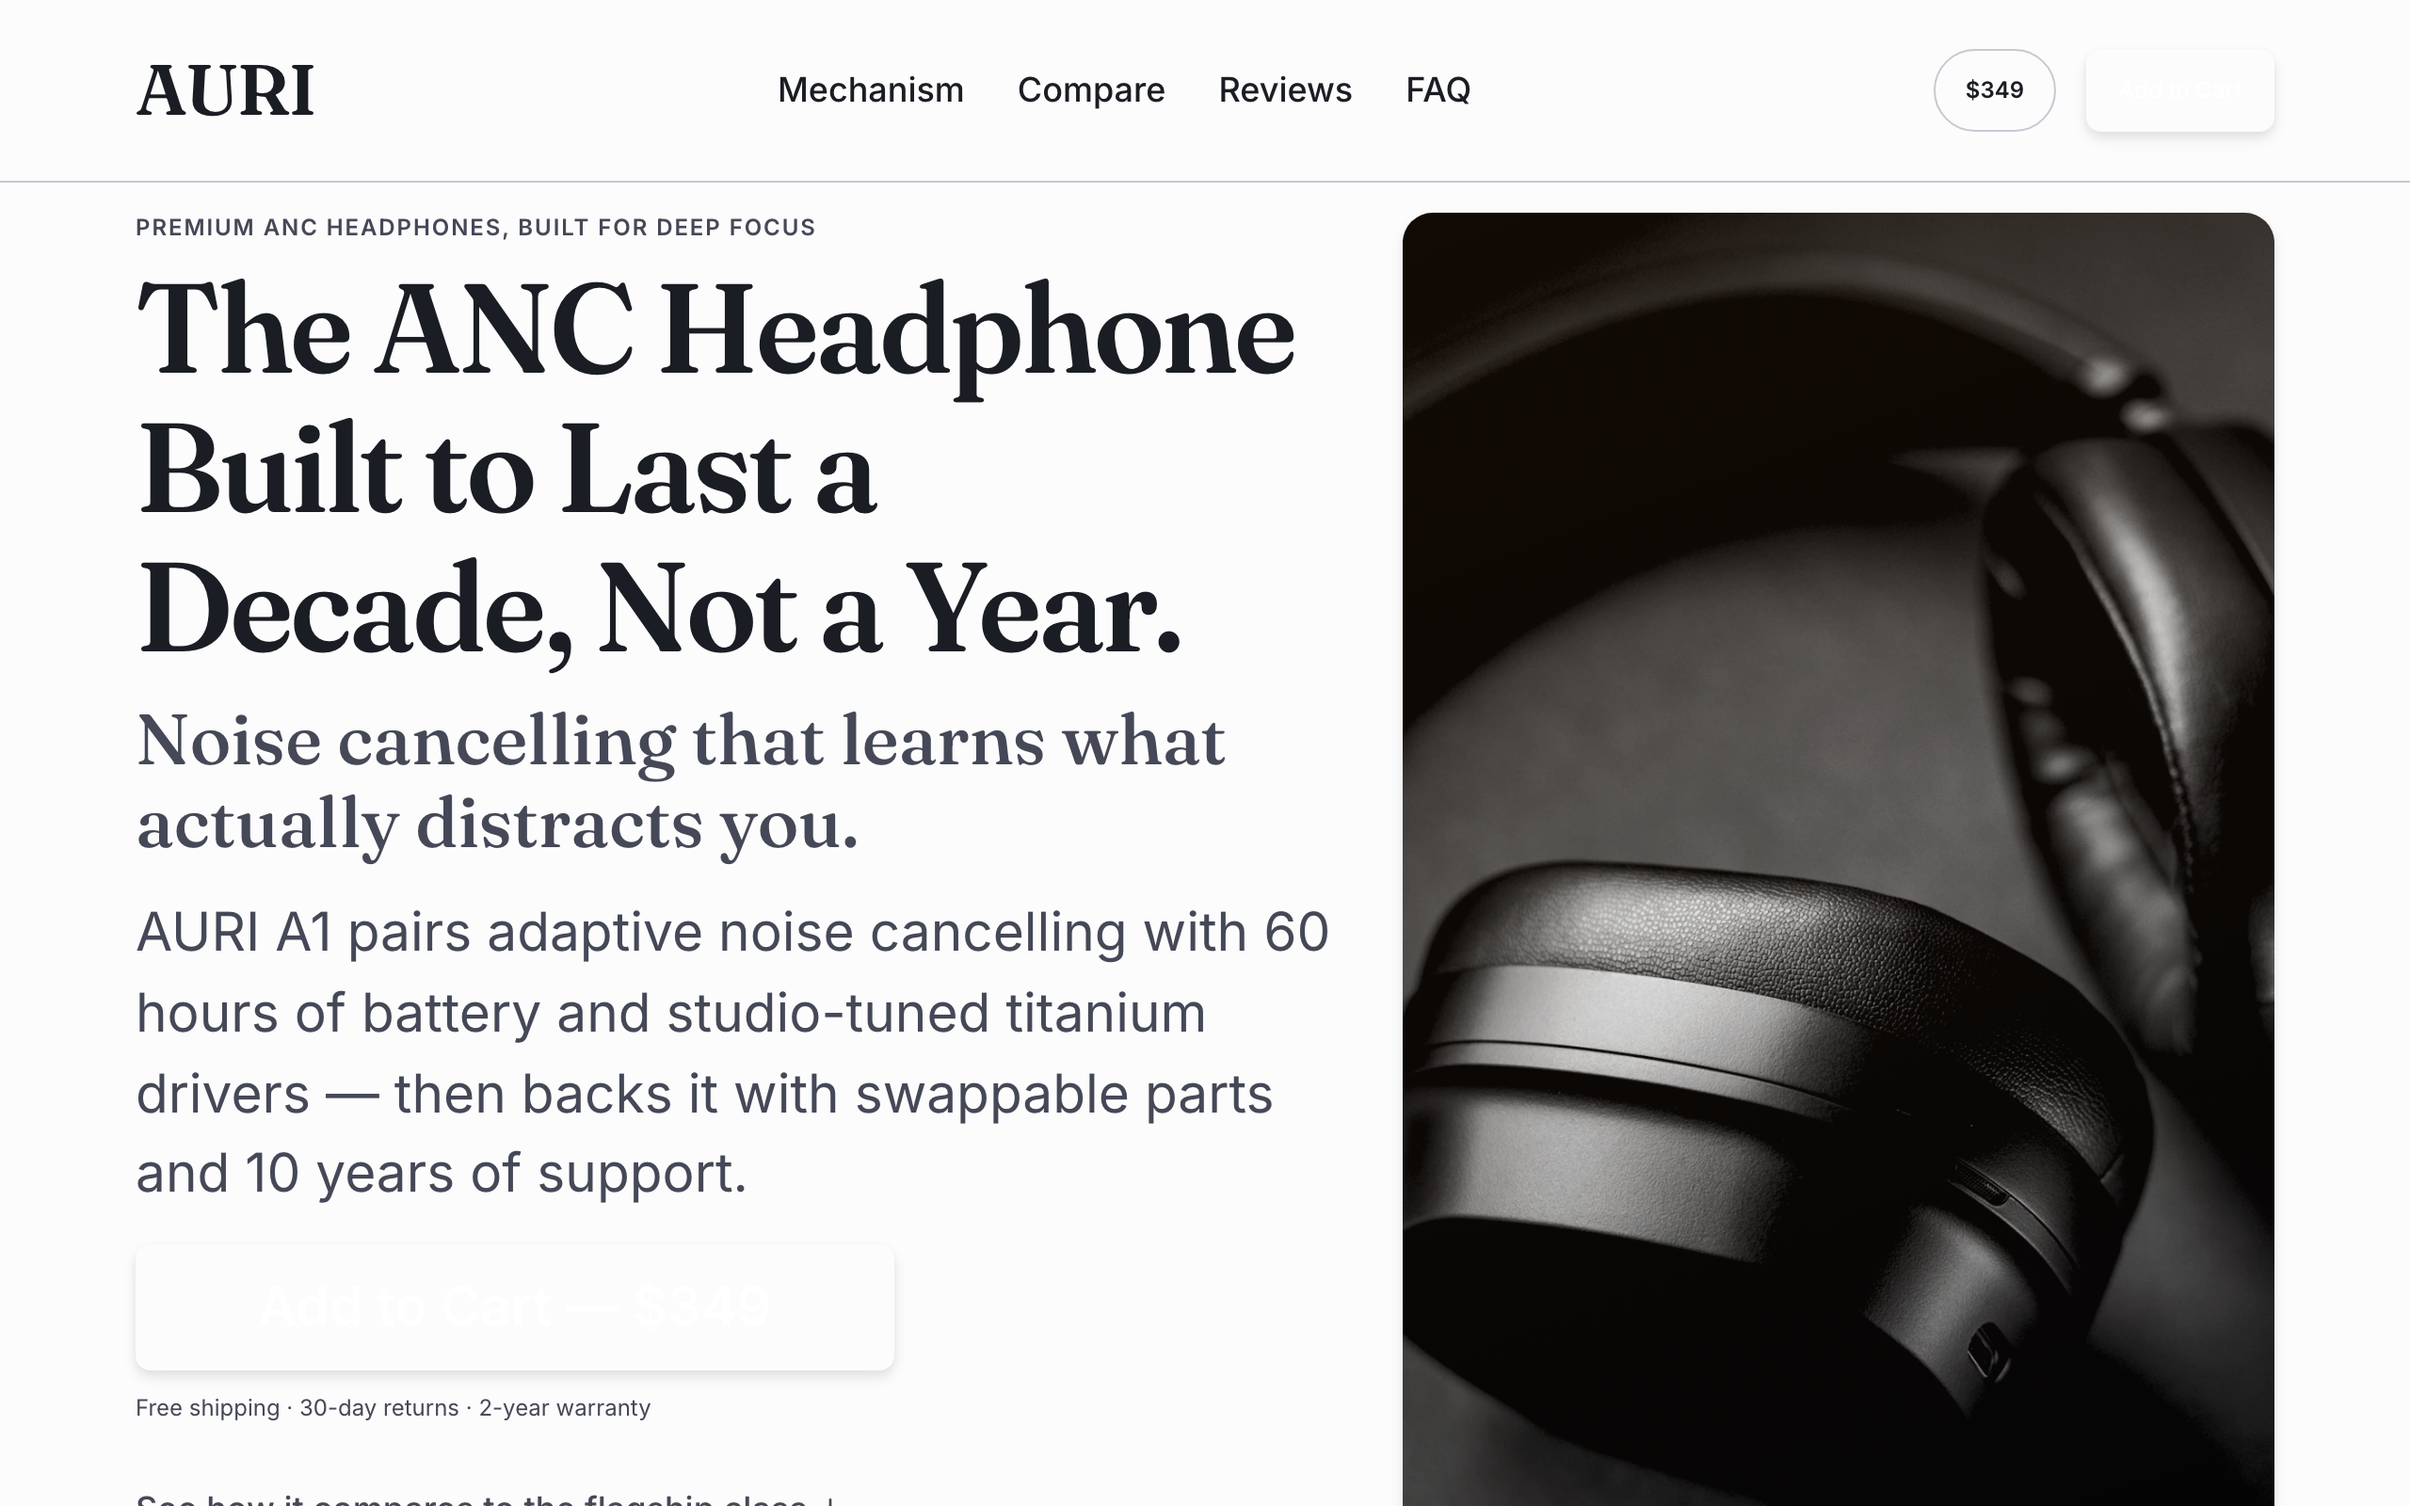
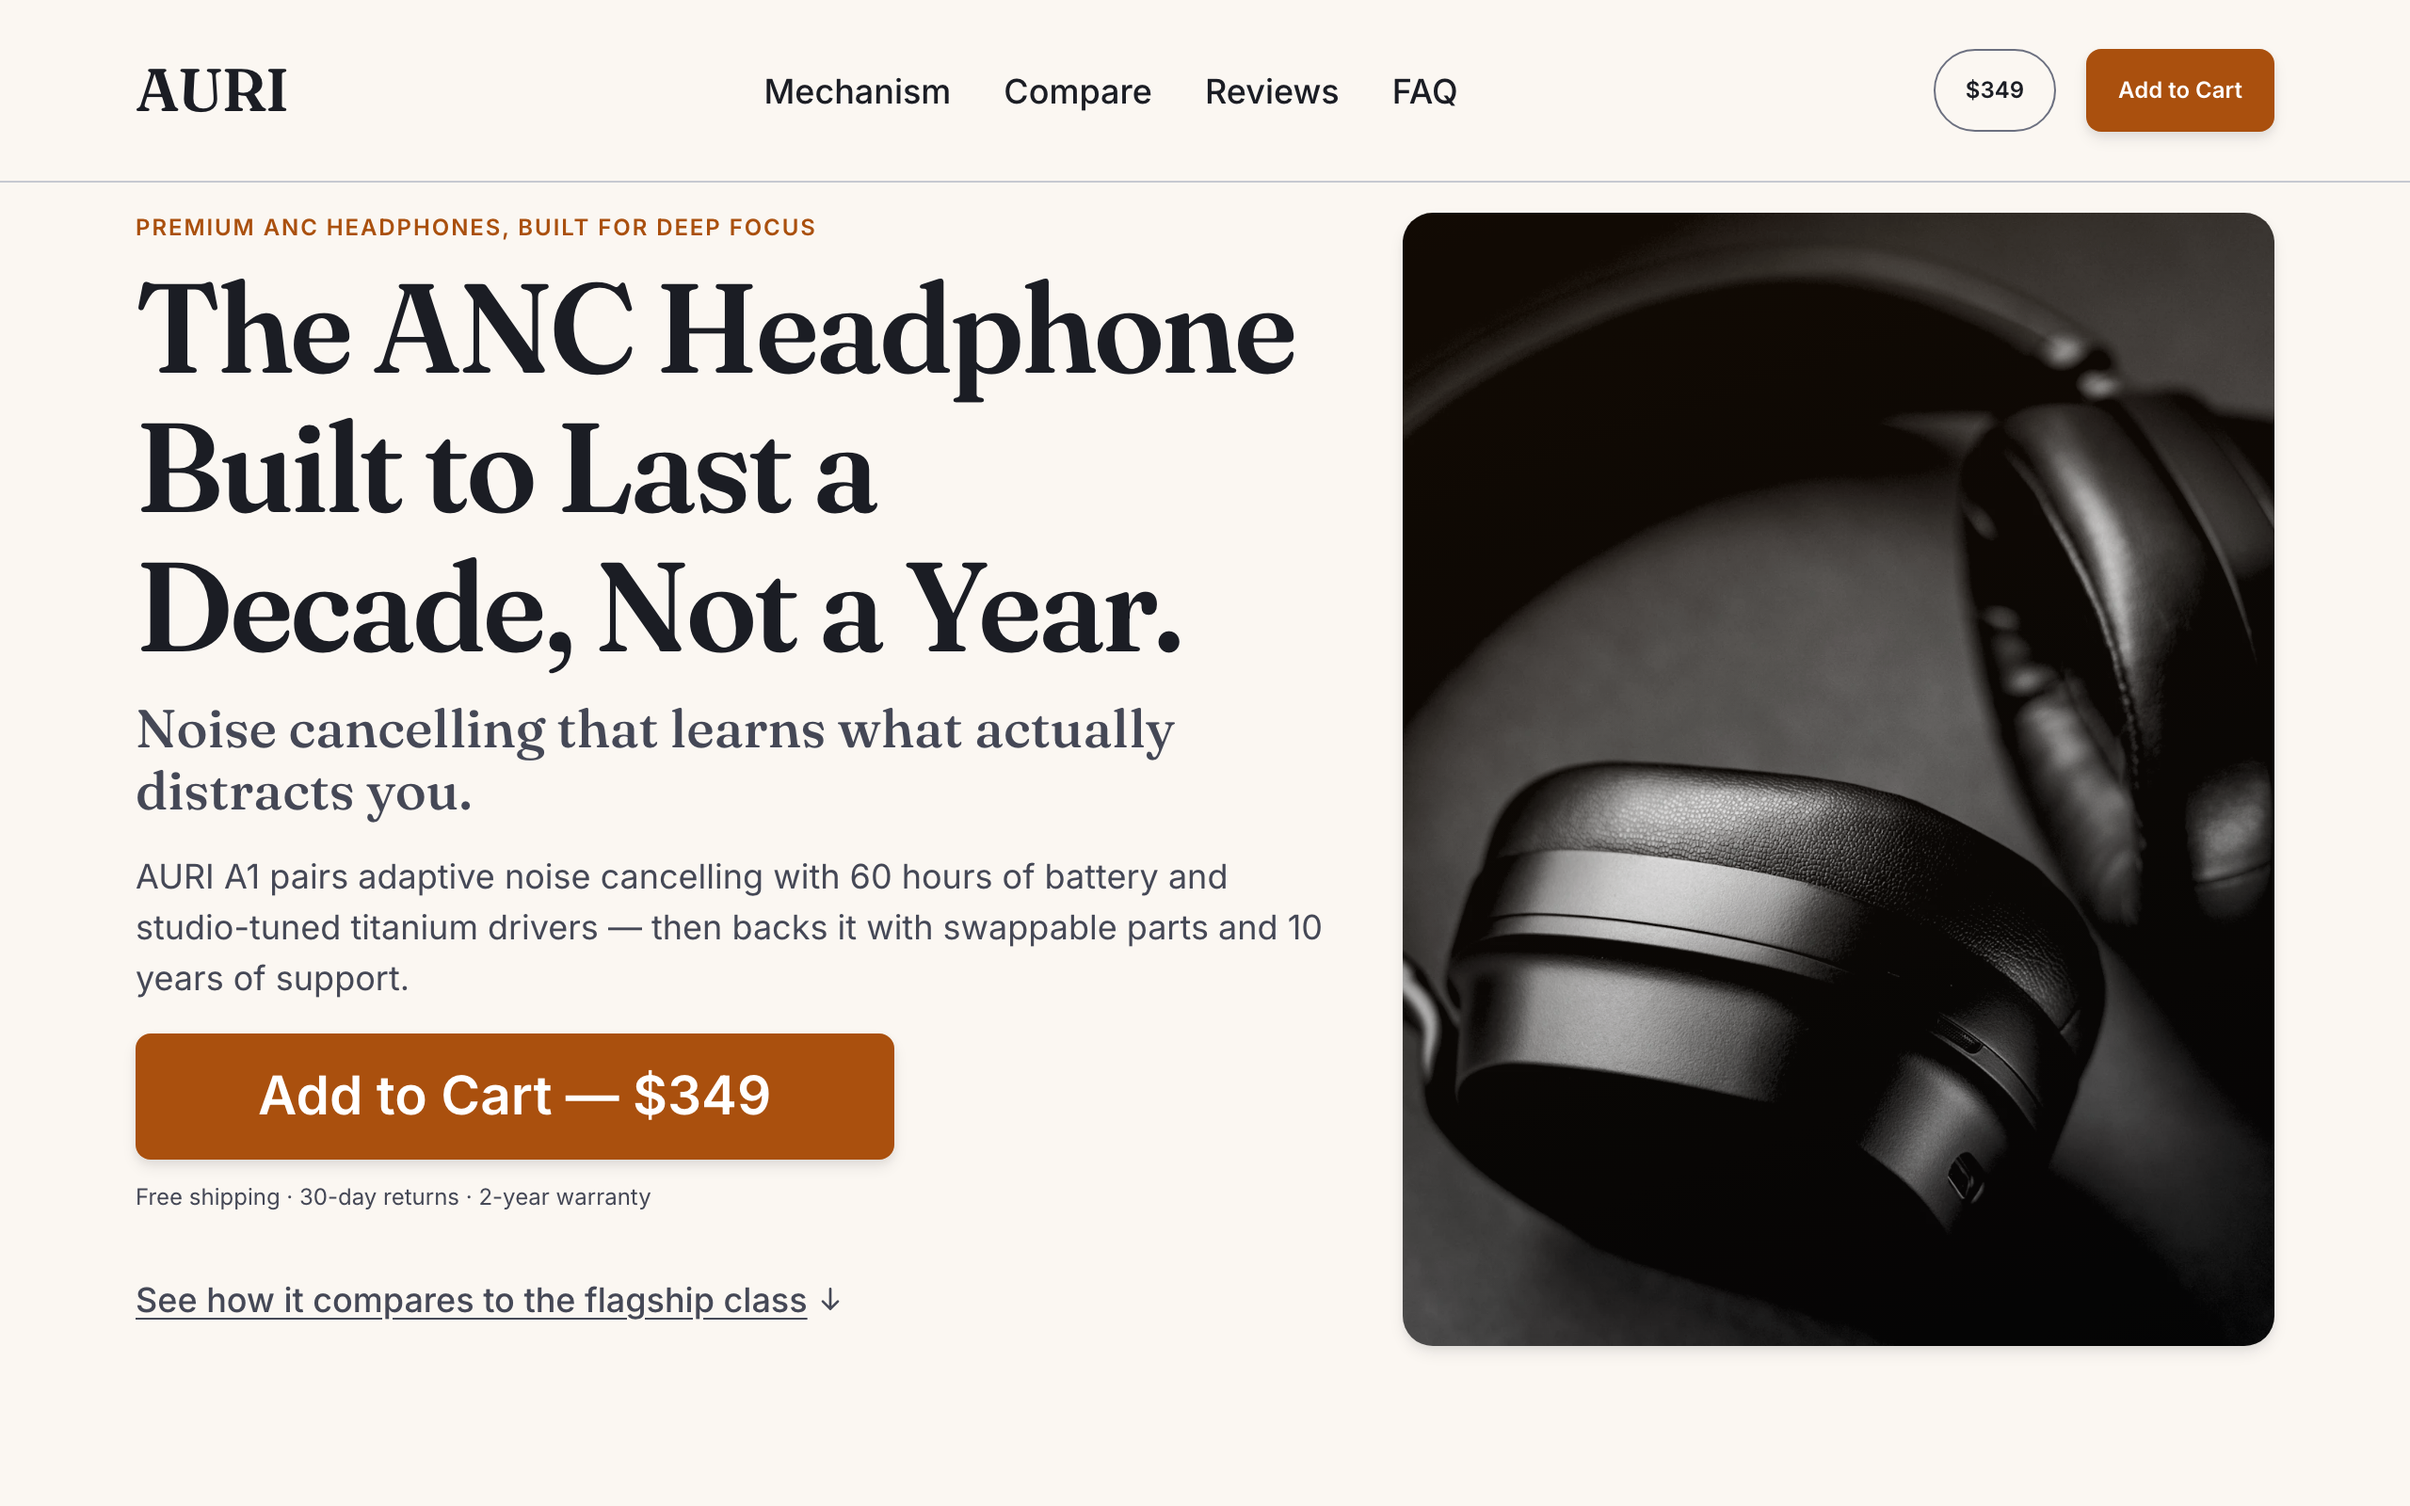
Warm editorial art direction: paper ground, copper eyebrow, photo band
The audited page was correct but sterile — clinical near-white ground,
dark photos floating as foreign boxes, decoration-grade waveform strip
cheapening the hero photograph. This pass: warm paper primitives
(--paper-1/2/3) replace the neutral surfaces (all 25 contrast assertions
re-verified on the new ground; interactive borders darkened one rung
after the gate caught 2.92:1 on the alt paper), copper eyebrow via a new
--color-accent-text role asserted at the 4.5 text floor, the strip comes
off the photo, editorial pull-quote with copper rule, and a full-bleed
photo band as a breather before the reviews. README screenshots updated.

diff --git a/demo/tokens.css b/demo/tokens.css
@@ -76,6 +76,13 @@
   --white: #FFFFFF;
   --black: #0E0F13;
 
+  /* Warm paper ramp — editorial ground replacing the clinical near-white.
+     Same hue family as the copper accent (~45deg), chroma whisper-low so
+     the accent still owns all saturation on the page. */
+  --paper-1: #FBF7F2; /* page ground */
+  --paper-2: #F5EEE5; /* alt section ground */
+  --paper-3: #FFFDFB; /* raised surfaces (cards, inputs) */
+
   /* --------------------------------------------------------------------
      2b. PRIMITIVE — Feedback ramp (single step, genuine red hue ≈ 22°).
      Kept deliberately separate from --accent (copper ≈ 45°) so error
@@ -269,9 +276,9 @@
      9. SEMANTIC — Color roles
      Named by function, never appearance (design-tokens R3).
      -------------------------------------------------------------------- */
-  --color-bg-page:            var(--neutral-1);
-  --color-bg-alt:              var(--neutral-2);  /* section-alt background */
-  --color-bg-surface:          var(--neutral-1);  /* cards on page bg */
+  --color-bg-page:            var(--paper-1);
+  --color-bg-alt:              var(--paper-2);  /* section-alt background */
+  --color-bg-surface:          var(--paper-3);  /* cards on page bg */
   --color-bg-surface-on-alt:   var(--white);       /* cards sitting on an alt section */
   --color-bg-component:        var(--neutral-3);
   --color-bg-component-hover:  var(--neutral-4);
@@ -279,7 +286,7 @@
   --color-bg-inverse:          var(--neutral-12);  /* dark surfaces, e.g. footer */
 
   --color-border-subtle:       var(--neutral-6);
-  --color-border-interactive:  var(--neutral-8);
+  --color-border-interactive:  var(--neutral-9); /* one step darker: neutral-8 fell to 2.92:1 on the warm alt paper */
   --color-border-focus:        var(--accent-7);    /* visible focus ring — interaction state, not a competing button */
 
   --color-text-primary:        var(--neutral-12);
@@ -314,6 +321,7 @@
      token for decoration is exactly what R18 forbids, and it's also how
      a page ends up with multiple "copper masses" competing with the one
      button that should win the squint test (R6). */
+  --color-accent-text: var(--accent-9); /* copper as TEXT (eyebrows, kickers) — same hex as the CTA fill, asserted at the 4.5 text floor */
   --color-accent-decorative: var(--accent-7);
 
   /* Unfilled/empty state of a decorative mark — e.g. the unfilled 30%
@@ -326,7 +334,7 @@
   /* Border sitting on an inverse (dark) surface — e.g. the footer.
      Named so component CSS never reaches for a raw --neutral-9 again. */
   --color-border-on-inverse: var(--neutral-9);
-  --color-border-interactive-hover: var(--neutral-9); /* hover step for interactive borders — one rung darker than --color-border-interactive */
+  --color-border-interactive-hover: var(--neutral-10); /* stays one rung past the darkened rest step */ /* hover step for interactive borders — one rung darker than --color-border-interactive */
 
   /* --------------------------------------------------------------------
      9b. SEMANTIC — Brand motif (design-tokens R29 / logo-swap test)
@@ -429,6 +437,7 @@
      text-sized placements are both large/bold-adjacent, non-text, or a
      hover state on large display type, so the non-text/large-text floor
      (≥3) is what actually applies: */
+  /* @contrast --color-accent-text on --color-bg-page >= 4.5 */
   /* @contrast --color-accent-decorative on --color-bg-page >= 3 */
   /* @contrast --color-accent-decorative on --color-bg-alt >= 3 */
 

diff --git a/demo/styles.css b/demo/styles.css
@@ -675,39 +675,13 @@ main [id] { scroll-margin-top: var(--space-10); } /* anchor jumps clear the 97px
   pointer-events: none;
 }
 
-/* M5 — the distinctive brand asset on the hero itself (above the fold on mobile; at 1280x800 the strip rides the photo's bottom edge just below the fold). The waveform divider
-   (its other job is the mechanism/final-cta section breaks) repeats along
-   the bottom edge of the HERO photo specifically — scoped to
-   .hero-visual, not every .photo-frame, so this stays a one-time hero
-   accent rather than a systemic photo treatment that would dilute it.
-   Painted after the grade overlay in source order, so it sits under the
-   ::after tint and gets graded the same warm/deep wash as the photo
-   itself instead of floating on top uncorrected. */
-.hero-visual.photo-frame::before {
-  content: "";
-  position: absolute;
-  inset-inline: 0;
-  inset-block-end: 0;
-  height: var(--space-5);
-  background-color: var(--color-accent-decorative);
-  mask-image: var(--motif-wave-divider);
-  -webkit-mask-image: var(--motif-wave-divider);
-  mask-repeat: repeat-x;
-  -webkit-mask-repeat: repeat-x;
-  mask-size: auto 100%;
-  -webkit-mask-size: auto 100%;
-  mask-position: bottom left;
-  -webkit-mask-position: bottom left;
-  opacity: 0.55;
-  pointer-events: none;
-}
 
 .eyebrow {
   font-size: var(--type-eyebrow-size);
   line-height: var(--leading-xs);
   letter-spacing: var(--type-eyebrow-tracking);
   text-transform: uppercase;
-  color: var(--color-text-secondary);
+  color: var(--color-accent-text);
   font-weight: var(--font-weight-semibold);
   margin-block-end: var(--space-2);
 }
@@ -903,6 +877,11 @@ main [id] { scroll-margin-top: var(--space-10); } /* anchor jumps clear the 97px
 .relevance p { color: var(--color-text-secondary); margin-block-end: var(--space-5); }
 
 .relevance .pull-quote {
+  font-family: var(--font-family-display);
+  font-size: var(--text-xl);
+  line-height: var(--leading-heading);
+  border-inline-start: var(--space-1) solid var(--color-accent-decorative);
+  padding-inline-start: var(--space-5);
   max-width: 40ch;
   font-size: var(--type-lead-size);
   line-height: var(--leading-body);
@@ -1599,6 +1578,15 @@ p.table-footnote { color: var(--color-text-secondary); font-size: var(--text-xs)
 }
 .footer-legal a:hover { opacity: 0.75; }
 .footer-legal a:active { opacity: 0.55; }
+
+/* Editorial photo band — a full-bleed breather between argument sections;
+   decorative (empty alt), no text overlay, so no contrast contract applies. */
+.photo-band { line-height: 0; }
+.photo-band img {
+  width: 100%;
+  height: clamp(12rem, 30vw, 22.5rem);
+  object-fit: cover;
+}
 
 /* ---------------------------------------------------------------------- */
 /* Toast (add-to-cart confirmation)                                        */

diff --git a/demo/index.html b/demo/index.html
@@ -298,6 +298,11 @@
   </section>
 
   <!-- ========================= PEER VALIDATION ========================= -->
+  <div class="photo-band">
+    <img src="img/hero-1x.webp" srcset="img/hero-1x.webp 800w, img/hero-2x.webp 1600w"
+         sizes="100vw" width="1600" height="1067" loading="lazy" alt="">
+  </div>
+
   <section class="reviews" id="reviews" aria-labelledby="reviews-heading">
     <div class="container">
       <h2 id="reviews-heading">What People Switching From Their Old Pair Are Saying</h2>
